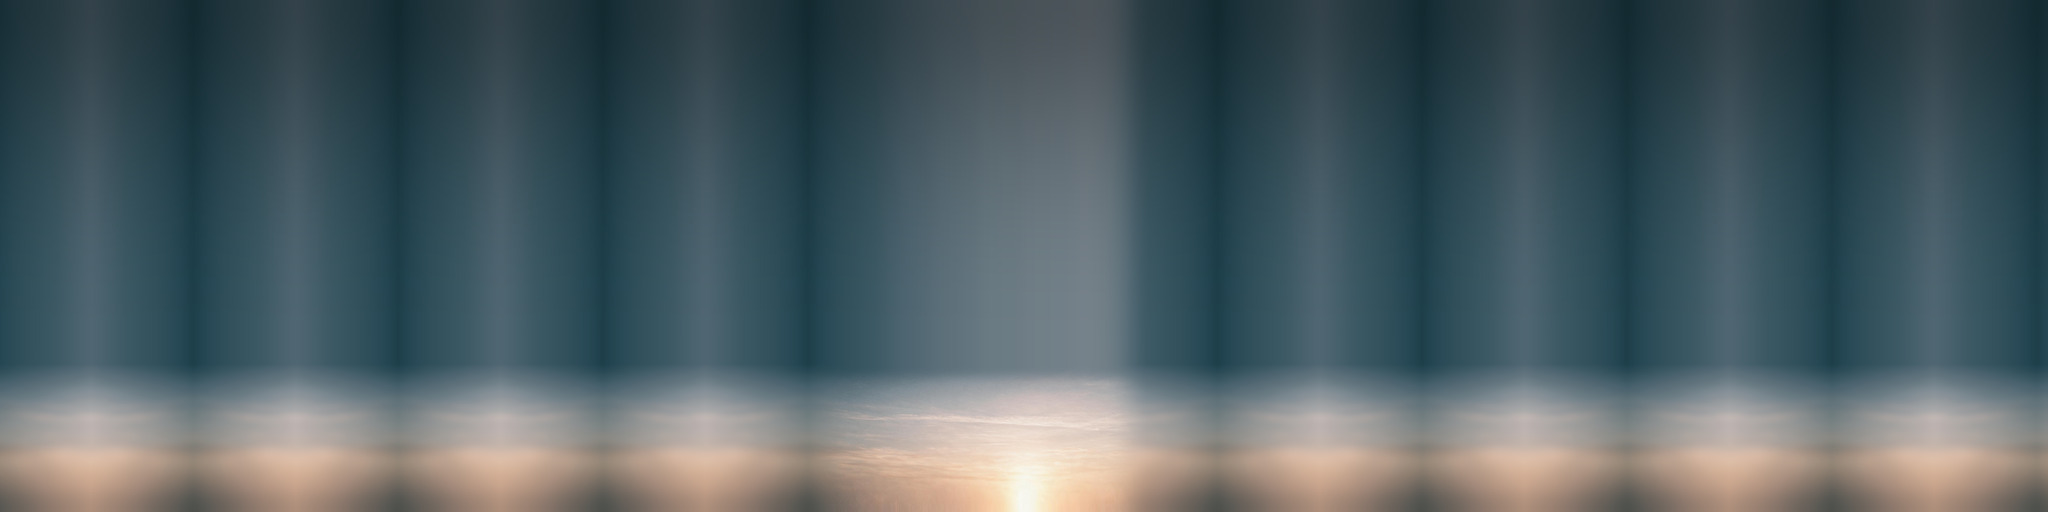
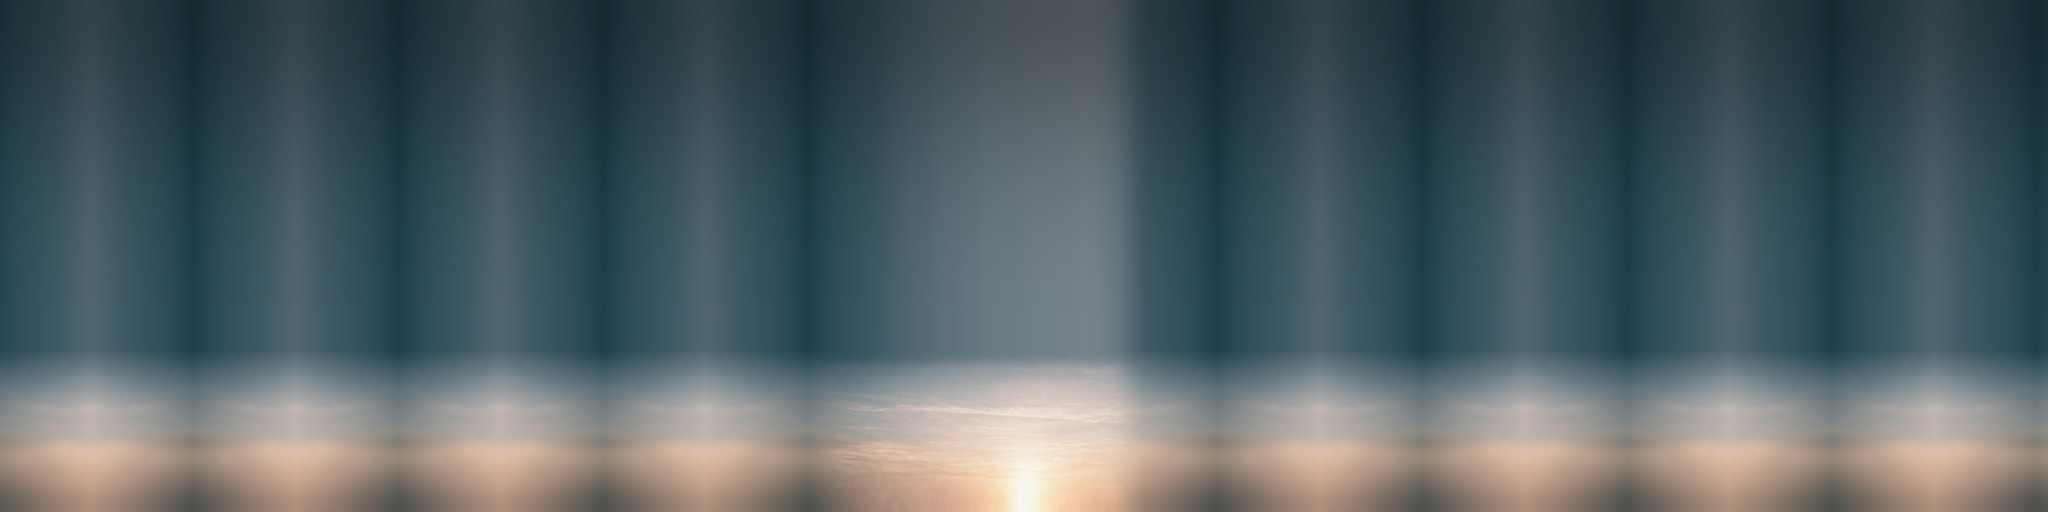
Dawn: skyline laid round the shared bearing and opened under the dawn sun, thinner fog, cooler fill, mist glow toward the sun, sky recipe

diff --git a/src/worlds/dawn/layers.ts b/src/worlds/dawn/layers.ts
@@ -1,22 +1,21 @@
 import * as THREE from 'three'
 import { makeSurface } from '../../core/shading.ts'
-import { SKYLINE, ringStrip, skylineAt, skylineCanopy } from '../../weather/skyline.ts'
+import { SKYLINE, ringStrip, skylineAt, skylineCanopy, skylineLayerSalt } from '../../weather/skyline.ts'
 
 const RAD = Math.PI / 180
 
-// The camera lies on bare soil and the sun has just cleared the land: the skyline is the shared one, without the banks that belong to the grown crop's far edge, and held under the sun's lower limb where the sun stands.
+// The camera lies on bare soil and the sun has just cleared the land. The skyline is the shared one, laid out round the same bearing as in every world, so each hill and each tree stands where it stands after the cut. Only where this world's sun rises the land is held under the sun's lower limb: the rows of trees open there and the hills lie low.
 const SUN_CLEAR_DEG = 14
 const SUN_FULL_DEG = 26
-const UNDER_SUN_DEG = [0.3, 0.34, 0.4, 0.42, 0.46, 0.4, 0.44]
-const LAYERS = 7
+const UNDER_SUN_DEG = [0.3, 0.34, 0.4, 0.42, 0.46, 0.4, 0.44, 0.3, 0.3]
 
 const smooth = (a: number, b: number, x: number): number => {
   const t = Math.min(1, Math.max(0, (x - a) / (b - a)))
   return t * t * (3 - 2 * t)
 }
 
-export function dawnSkylineAt(i: number, az: number, sunAzimuthDeg: number): { radius: number; top: number } {
-  const at = skylineAt(i, az, sunAzimuthDeg)
+export function dawnSkylineAt(i: number, az: number, skylineAzimuthDeg: number, sunAzimuthDeg: number): { radius: number; top: number } {
+  const at = skylineAt(i, az, skylineAzimuthDeg)
   let off = Math.abs(az - sunAzimuthDeg * RAD) % (2 * Math.PI)
   if (off > Math.PI) off = 2 * Math.PI - off
   const cap = at.radius * Math.tan(UNDER_SUN_DEG[i] * RAD)
@@ -85,11 +84,13 @@ const TONES: { base: [number, number, number]; rim: number }[] = [
   { base: [0.014, 0.03, 0.03], rim: 0.04 },
   { base: [0.012, 0.028, 0.03], rim: 0.03 },
   { base: [0.009, 0.022, 0.025], rim: 0.03 },
+  { base: [0.009, 0.02, 0.023], rim: 0 },
+  { base: [0.009, 0.02, 0.023], rim: 0 },
 ]
 
 export interface FarLayers { meshes: THREE.Mesh[]; triangles: number }
 
-export function makeFarLayers(sunAzimuthDeg: number, airCool: [number, number, number], airWarm: [number, number, number], airPerM: number): FarLayers {
+export function makeFarLayers(skylineAzimuthDeg: number, sunAzimuthDeg: number, airCool: [number, number, number], airWarm: [number, number, number], airPerM: number): FarLayers {
   const meshes: THREE.Mesh[] = []
   let triangles = 0
   const airUniforms = {
@@ -97,15 +98,15 @@ export function makeFarLayers(sunAzimuthDeg: number, airCool: [number, number, n
     uAirWarm: { value: new THREE.Vector3().fromArray(airWarm) },
     uAir: { value: airPerM },
   }
-  for (let i = 0; i < LAYERS; i++) {
+  for (let i = 0; i < SKYLINE.length; i++) {
     const layer = SKYLINE[i]
     const tone = TONES[i]
-    const geometry = ringStrip(layer.segments, (az) => dawnSkylineAt(i, az, sunAzimuthDeg))
+    const geometry = ringStrip(layer.segments, (az) => dawnSkylineAt(i, az, skylineAzimuthDeg, sunAzimuthDeg))
     const surface = makeSurface({
       name: `dawn ${layer.name}`,
       vertex,
       fragment: `${layer.trees ? '#define TREES 1\n' : ''}${stripFragment}`,
-      uniforms: { ...airUniforms, uBase: { value: new THREE.Vector3().fromArray(tone.base) }, uLayer: { value: i * 17.3 + 1.7 }, uRim: { value: tone.rim }, uCrown: { value: layer.crownM }, uFloor: { value: layer.floor } },
+      uniforms: { ...airUniforms, uBase: { value: new THREE.Vector3().fromArray(tone.base) }, uLayer: { value: skylineLayerSalt(i) }, uRim: { value: tone.rim }, uCrown: { value: layer.crownM }, uFloor: { value: layer.floor } },
       side: THREE.DoubleSide,
       castShadow: false,
     })

diff --git a/src/worlds/dawn/index.ts b/src/worlds/dawn/index.ts
@@ -1,20 +1,21 @@
 import type { WorldSettings, WorldStageMaker } from '../../core/world.ts'
 import { makeMist, type MistSettings } from '../../weather/mist/index.ts'
+import { world as golden } from '../golden/index.ts'
 import { makeFarLayers } from './layers.ts'
 import { DawnSky } from './sky.ts'
 
 export const world: WorldSettings = {
   standIn: true,
   sun: { azimuthDeg: 175.007, elevationDeg: 1.005, color: [7.5, 4.6, 2.2], softnessDeg: 1.2, lean: 1, lift: 1 },
-  sky: { zenith: [0.2, 0.34, 0.62], horizon: [1.3, 0.92, 0.5], bounce: [0.07, 0.05, 0.035], ambient: 0.75, glow: [9, 5.2, 2], glowPower: 60, disc: 60 },
+  sky: { zenith: [0.2, 0.34, 0.62], horizon: [0.55, 0.55, 0.6], bounce: [0.07, 0.05, 0.035], ambient: 0.75, glow: [9, 5.2, 2], glowPower: 60, disc: 60 },
   backdrop: { file: null, key: 'dawn-seedling', sunAt: null, gain: 1, blur: 0.25 },
-  fog: { color: [0.75, 0.62, 0.48], sunTint: [1.6, 0.9, 0.3], density: 0.012, falloff: 1.4 },
+  fog: { color: [0.32, 0.32, 0.3], sunTint: [1.2, 0.7, 0.3], density: 0.003, falloff: 1.4 },
   grade: { exposure: 0.78, contrast: 1.28, white: 9, saturation: 1.04, gain: [1.03, 1, 0.96], lift: [0, 0, 0.004], bloom: 0.11, bloomKnee: 1.1, vignette: 0.3, grain: 0.012 },
   ground: { wet: 0.25, frost: 0, dew: 1 },
   wind: 0.1,
 }
 
-const SKY_GAIN = 1.25
+const SKY_GAIN = 2
 const AIR_COOL: [number, number, number] = [0.5, 0.6, 0.66]
 const AIR_WARM: [number, number, number] = [2.2, 1.3, 0.6]
 const AIR_PER_M = 0.00025
@@ -25,7 +26,7 @@ export const mist: MistSettings = {
   sheets: 20,
   heightM: 0.08,
   thickness: 0.2,
-  lit: [0.11, 0.1, 0.09],
+  lit: [0.1, 0.105, 0.12],
   shade: [0.8, 0.52, 0.32],
   forward: 1,
   drift: [0.05, 0.02],
@@ -35,7 +36,7 @@ export const mist: MistSettings = {
 
 export const stage: WorldStageMaker = (def) => {
   const sky = new DawnSky(def, SKY_GAIN)
-  const far = makeFarLayers(def.sun.azimuthDeg, AIR_COOL, AIR_WARM, AIR_PER_M)
+  const far = makeFarLayers(golden.sun.azimuthDeg, def.sun.azimuthDeg, AIR_COOL, AIR_WARM, AIR_PER_M)
   const air = makeMist('dawn', mist)
   let open = 0
   let close = 0

diff --git a/src/worlds/dawn/sky.ts b/src/worlds/dawn/sky.ts
@@ -35,13 +35,13 @@ void main() {
   // One lens sample stands for its share of the disc of confusion: the picture and the sun are drawn that wide, so the samples close into a smooth blur.
   float wide = max(1.0, 1.4 * coc / sqrt(uSamples));
   float lod = max(0.0, log2(wide * uPixelAngle / uTexelAngle));
-  vec3 color = textureLod(tSky, uv, lod).rgb * uGain * (1.0 + 0.8 * exp(-theta / 0.16));
+  vec3 color = textureLod(tSky, uv, lod).rgb * uGain * (1.0 + 0.3 * exp(-theta / 0.16));
 
   float a = uFogDensity * exp(-uFogFalloff * max(uCamPos.y, 0.0));
   float depth = a / (uFogFalloff * max(d.y, 1e-4));
   color = mix(color, uFogColor + uFogSunTint * pow(saturate(toSun), 6.0), 1.0 - exp(-depth));
 
-  color += uGlow * (1.0 * exp(-theta / 0.014) + 0.22 * exp(-theta / 0.05) + 0.05 * exp(-theta / 0.17));
+  color += uGlow * (1.0 * exp(-theta / 0.014) + 0.22 * exp(-theta / 0.05) + 0.05 * exp(-theta / 0.17) + 0.012 * exp(-theta / 0.6));
   float share = 0.5 * wide * uPixelAngle;
   float radius = sqrt(SUN_RADIUS * SUN_RADIUS + share * share);
   color += uDisc * (SUN_RADIUS * SUN_RADIUS / (radius * radius)) * (1.0 - smoothstep(radius - max(share, 0.75 * uPixelAngle), radius + max(share, 0.75 * uPixelAngle), theta));

diff --git a/src/weather/mist/index.ts b/src/weather/mist/index.ts
@@ -72,7 +72,7 @@ void main() {
   float depth = uThickness * amount * path * exp(-max(vWorld.y, 0.0) / height);
   float alpha = (1.0 - exp(-depth)) * smoothstep(0.15, 0.6, length(ray.xz) / uRadiusM);
   float theta = acos(clamp(dot(v, uSunDir), -1.0, 1.0));
-  float glow = 0.03 + uForward * (0.6 * exp(-theta / 0.12) + 4.0 * exp(-theta / 0.05));
+  float glow = 0.03 + uForward * (2.5 * exp(-theta / 0.15) + 6.0 * exp(-theta / 0.05));
   vec3 color = uLit * uSunColor * glow + uShade * skyAmbient(vec3(0.0, 1.0, 0.0));
   outColor = vec4(color, alpha);
 }

diff --git a/assets-src/worlds/dawn/RECIPE.md b/assets-src/worlds/dawn/RECIPE.md
@@ -1,14 +1,32 @@
 # Recipe · world dawn
 
-## backdrop.jpg (stand-in)
+## sky.jpg
 
-- Output files: `public/assets/worlds/dawn/full/backdrop.jpg` (2816 x 1584) and `public/assets/worlds/dawn/web/backdrop.jpg` (2048 x 1152).
-- What it is: the approved image `references/approved/dawn-seedling.png` with the plant painted out. The sky shader places it where the camera of the key `dawn-seedling` sees it.
-- Tool: the workspace's image generation tool, model `seedream_5`, used as an image edit.
-- Steps:
-  1. Input: `references/approved/dawn-seedling.png`, as the only input image. Aspect ratio 16:9. Prompt, word for word: "Edit this photograph. Remove the small sunflower seedling in the foreground completely: its stem, its two green seed leaves and the tiny leaves between them, and also the striped seed husk lying on the soil beside it. Fill the places where they were with what would be seen behind them: the same dark crumbly soil with dew, the misty field and the soft dawn sky. Keep everything else exactly as it is and exactly where it is: the framing, the horizon line, the sun and its position, the sky, the colors, the light, the depth of field blur and the film grain. Do not add anything: no plant in the foreground, no sprout, no flower, no leaves, no people, no animals, no insects, no objects, no text, no watermark, no border."
-- Then `npx tsx tools/standin-backdrops.ts` stretches the kept take to 2816 x 1584 (JPEG, quality 92, no chroma subsampling) and makes the web size from that file (quality 88). The take is read from `out/work/backdrops/dawn-s1.png`, which is not committed.
-- Take kept: take 1 of 2. The seedling and the husk are gone, the sun, the mist and the horizon sit where they were.
-- Takes thrown out: the other take (model nano_banana_pro) grew new grass sprouts where the seedling had been.
-- Checks passed: the take was scaled to the size of the approved image and compared with it region by region (left, right and top strips, the best shift searched within 20 px): best shift 0 px in the left and right strips. It was looked at in native-size crops of its four corners and of the place where the plant stood: no text, no watermark, no object that was not there before, no leftover of the plant.
-- Status: a stand-in. It is replaced by this world's real sky and far background when the world is built.
+- Output files: `public/assets/worlds/dawn/full/sky.jpg` (4096 x 1024, JPEG quality 93, no chroma subsampling) and `public/assets/worlds/dawn/web/sky.jpg` (2048 x 512, JPEG quality 92, no chroma subsampling).
+- What it is: the whole dome of the sky a few minutes after sunrise. Across, it runs once round the horizon with the sun at the middle and screen right to the right. Down, the row is the square root of the elevation over 90 degrees, so most rows lie near the horizon where the film looks. It holds no sun disc, no land, no plant and no stars: the shader in `src/worlds/dawn/sky.ts` multiplies the picture by a gain that climbs toward the sun and adds the haze, the aureole and the disc at true brightness.
+- Why it is half the size of the golden dome: the dawn camera is a long lens focused a hand's width away, so the sky is never nearer to focus than a blur circle of about 120 px, and it shows only the lowest 7.5 degrees of the sky over 34.5 degrees of bearing.
+- Tool: the workspace's image generation tool, model `seedream_5`, aspect ratio 16:9. The take came back at 2816 x 1584. The tool wrote JPEG data into a file named `.png`.
+- Takes are kept under `out/work/dawnsky/` and are not committed.
+
+### Sunward picture
+
+- Input files: `references/approved/dawn-seedling.png` (image 1) and `references/approved/dawn-sprout.png` (image 2).
+- Prompt, word for word: "A wide photograph of only the sky a few minutes after sunrise, shot on a cinema camera aimed level at the horizon across a flat open plain on a clear, still, misty morning. Wide 16:9 frame. Use the two reference images only for the colors and the softness of the sky: image 1 and image 2 show the same morning. The bottom edge of the picture is exactly the level horizon: no land, no hills, no trees, no field, no soil, no plants, no grass, no water, nothing but sky anywhere in the picture. The sun itself is not in the picture: it sits just under the bottom edge, three quarters of the way in from the left edge, and all that shows of it is the brightest part of a wide soft pale gold glow on the bottom edge there, with no disc, no rays and no white hot spot. Along the whole bottom edge: a band of pale gold and soft peach haze, warmest and brightest near the glow, cooler and dimmer toward the left edge. Above it the sky rises through a pale milky haze of faint rose and cream into a soft, muted grey blue that fills the upper half, a little darker toward the top left corner. A few thin, faint, long streaks of high cloud and soft veils of cirrus lie level across the sky, lit pale cream and peach on their undersides, very low in contrast. Calm, quiet, natural color, documentary realism, fine soft detail everywhere. Even exposure with detail in every part: no clipped highlights, no sun disc, no lens flare, no sunbeams, no vignette, no birds, no aircraft, no stars, no text, no watermark, no border."
+- Takes: 1. Kept take 1 (`out/work/dawnsky/sunward-1.png`): pale gold and peach along the bottom edge, a milky rose and cream haze above it, muted grey blue in the upper half, darker toward the top left, thin level streaks of cirrus. The glow sits at 0.6335 of the width on the bottom edge, not at three quarters as asked; the layout below places it by that number. Rows 1560 to 1583 hold a thin dark strip (a far shore the tool added against the prompt); the layout reads no row under 1540, so none of it is in the dome.
+
+### Laying the dome out
+
+- `node assets-src/worlds/dawn/compose-sky.mjs`, run from the repo root, reads the kept take and writes both output files.
+- The take covers 60 degrees of bearing, from 38 degrees left of the sun to 22 degrees right of it. The film sees from about 29 degrees left of the sun to 5.5 degrees right of it, so every sky pixel of the film comes from this one picture.
+- The take's rows 1540 (the horizon) to 40 are laid over the lowest 9 degrees of elevation. That is steeper than the take was shot: the approved frames show the whole rise from the peach band to the grey blue within the 7.5 degrees their long lens sees.
+- From 7 to 9 degrees the dome fades into a strong blur of the take's top rows, dimmed by up to 35 percent overhead. The film never looks there.
+- Round the rest of the horizon the dome is a strong blur of the take's left three tenths, away from the glow, laid back and forth, and cross-faded into the take over 8 degrees at both ends. The film never looks there either; it closes the dome so that nothing is missing behind the camera.
+
+### Checks passed
+
+- The kept take was looked at whole: no text, no watermark, no border, no bird, no aircraft, no sun disc, no rays. The strip of land on its bottom rows is left out as said above.
+- Sizes: 4096 x 1024 and 2048 x 512. Files: under 0.3 MB and under 0.1 MB.
+
+## Not maps
+
+- The hills, the tree lines and the rows of trees are the shared skyline (`src/weather/skyline.ts`), drawn in this world's colors by `src/worlds/dawn/layers.ts`. The mist is `src/weather/mist/`. Neither uses a file.
